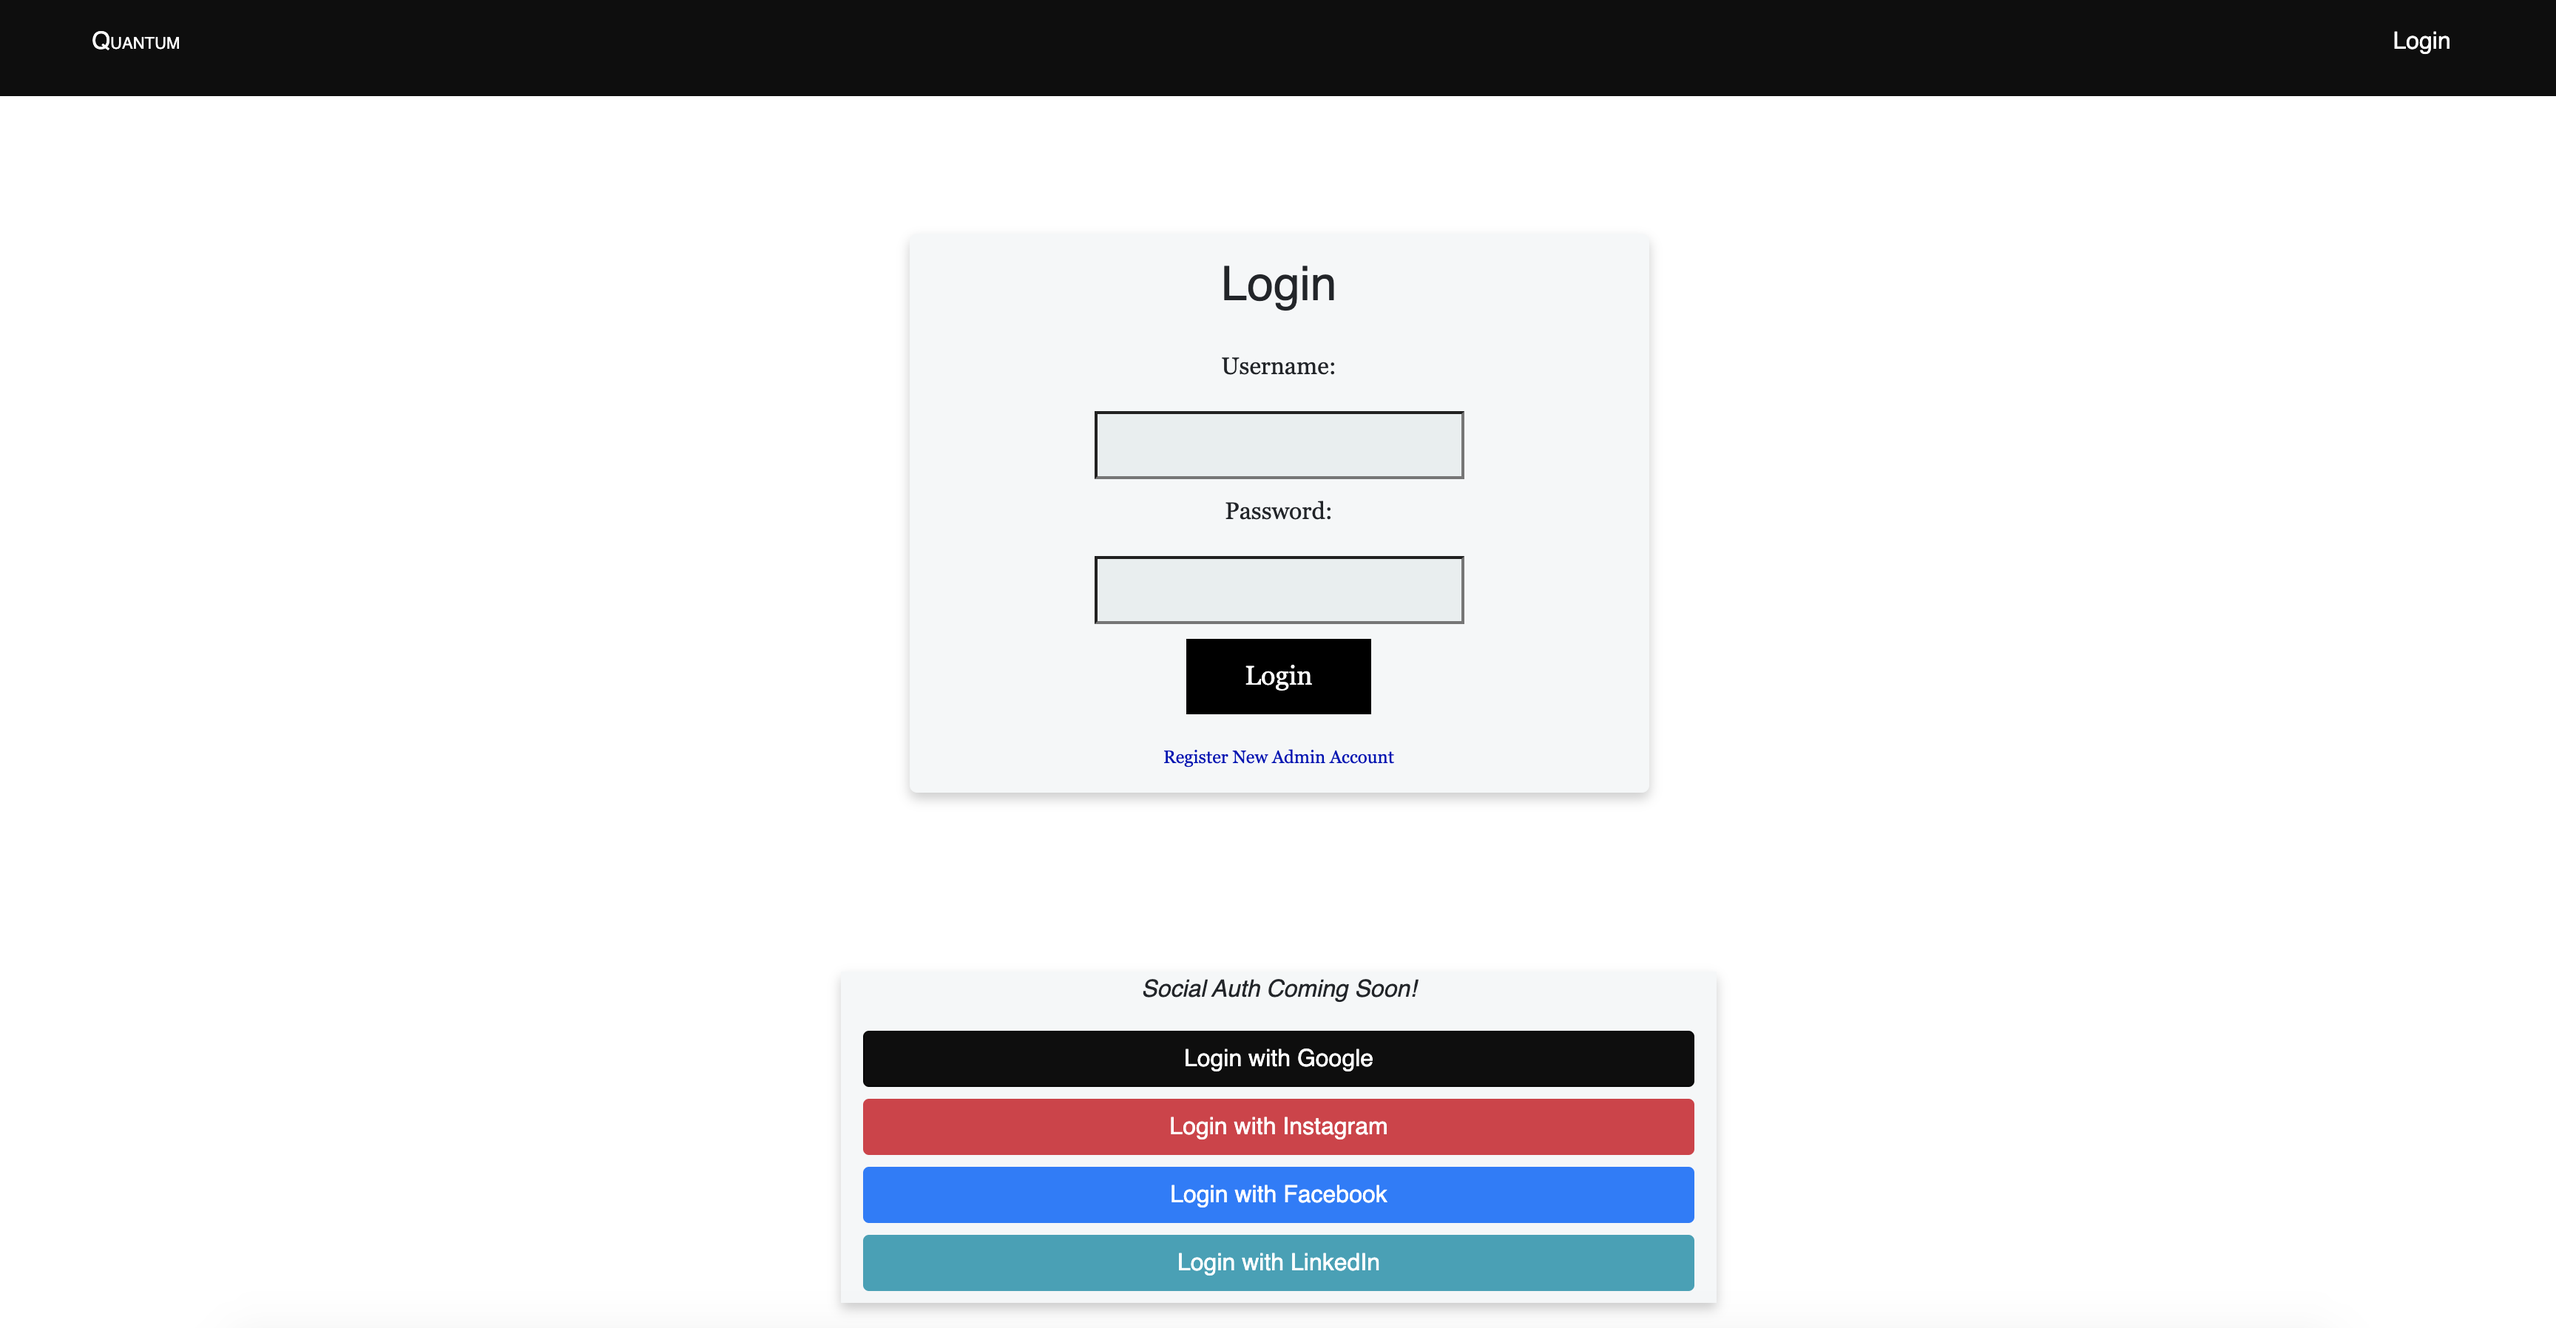
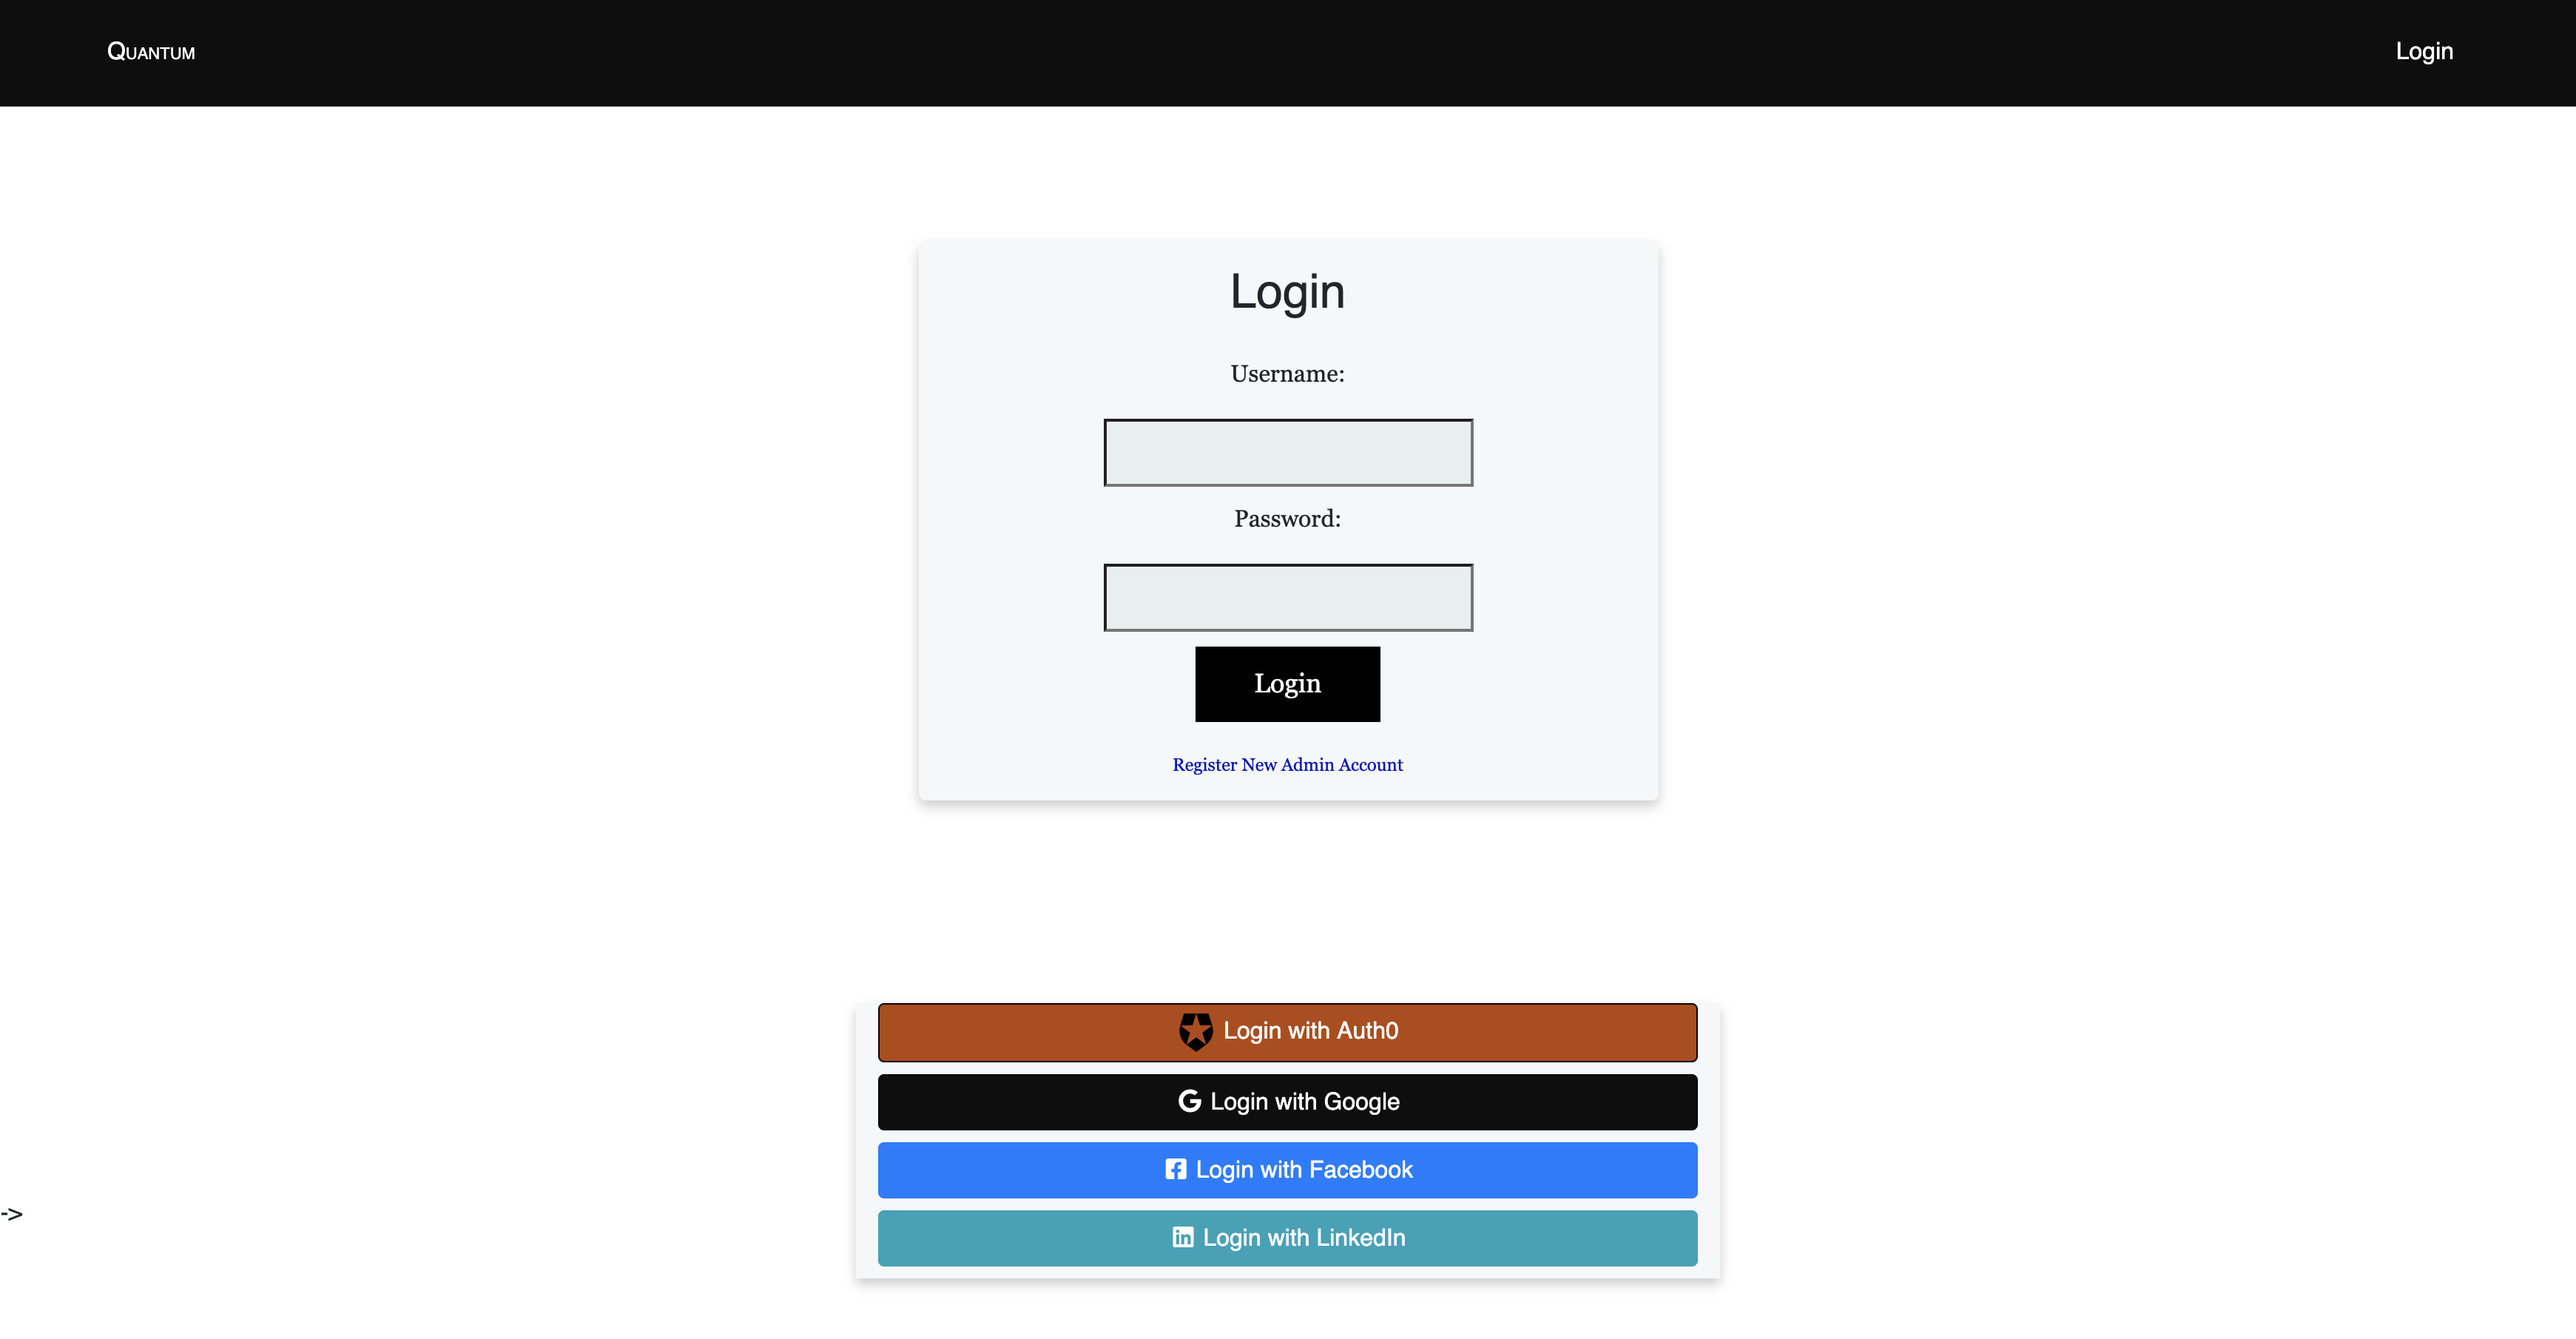
feat: login and register validation edits. Readme edits.

diff --git a/quantummanagementapp/templates/registration/login.html b/quantummanagementapp/templates/registration/login.html
@@ -7,12 +7,13 @@
 <div class="login-container">
     <div class="login-card">
         <h2>Login</h2>
+        <div class="login_sub_header">Superuser or SysAdmin Accounts</div>
         <form method="POST">
             {% csrf_token %}
             {{ login_form.as_p }}
             <button class="login_btn" type="submit">Login</button>
             <button class="register_btn"><a class="register_btn"
-                    href="{% url 'quantummanagementapp:register' %}">Register New Admin Account</a></button>
+                    href="{% url 'quantummanagementapp:register' %}">Register New SysAdmin Account</a></button>
             {% if messages %}
             <ul class="messages">
                 {% for message in messages %}
@@ -26,7 +27,6 @@
         <div class="col-md-8 mx-auto social-container my-2 order-md-1">
 
             <button id="login_with_auth0" class="btn btn-primary mb-2">
-                    <!-- <img src="https://i.cloudup.com/StzWWrY34s.png" /> -->
                     <img id="auth0_img" src="../../static/images/iconfinder_auth0_4691528.svg" style="width: 26px;">
                 <a href="{% url 'social:begin' 'auth0' %}" title="Auth0">Login with Auth0</a>
             </button>
@@ -37,36 +37,16 @@
             </button>
             {% endif %}
 
-            <!-- <button class="btn btn-primary mb-2" onclick="loginfb()"> -->
                 <button class="btn btn-primary mb-2" onclick="checkLoginState();">
-                <a href="{% url 'social:begin' 'facebook' %}?next={{ next }}"> <i class="fab fa-facebook-square"></i> Login with Facebook
+                <a href="{% url 'social:begin' 'facebook' %}"> <i class="fab fa-facebook-square"></i> Login with Facebook
                 </a>
             </button>
             <button class="btn btn-info mb-2">
                 <a href="#"> <i class="fab fa-linkedin"></i> Login with LinkedIn</a>
             </button>
 
-
-
-
-            <!-- <div> 
-                {% if not status %} 
-                    <a href="/gmailAuthenticate" onclick="gmailAuthenticate()" title="Google">Google</a> 
-                {% else %} 
-                    <p>Your are verified</p> 
-                {% endif %} 
-            </div>  -->
-<!-- 
-            <fb:login-button scope="public_profile,email" onlogin="checkLoginState();">
-            </fb:login-button> -->
-
         </div>
     </div>
 </div>
 
 {% endblock %}
-
-
-<!-- {% block scripts %} -->
-<!-- <script src="{% static 'scripts/socialAuth.js' %}"></script> -->
-<!-- {% endblock %} -->

diff --git a/quantummanagementapp/static/styles/login.css b/quantummanagementapp/static/styles/login.css
@@ -13,7 +13,7 @@
 }
 
 .login-card h2 {
-  margin-bottom: 20px;
+  margin-bottom: 10px;
   margin-top: 15px;
 }
 
@@ -53,7 +53,7 @@
   border: 1px solid rgba(0, 0, 0, 0.753);
   border-width: 1px 1px 3px;
   margin-bottom: 10px;
-  margin-top: 5px;
+  margin-top: 10px;
 }
 
 /* On mouse-over, add a deeper shadow */
@@ -216,4 +216,10 @@
 #login_with_auth0 img {
   border: none;
   margin-right: 1px;
+}
+
+.login_sub_header {
+  font-size: 12px;
+  font-style: italic;
+  margin-bottom: 12px;
 }

diff --git a/quantummanagementapp/views/admin_users/auth/register.py b/quantummanagementapp/views/admin_users/auth/register.py
@@ -18,17 +18,12 @@ def register_user(request):
             username = form.cleaned_data.get('username')
             raw_password = form.cleaned_data.get('password1')
             user = authenticate(request, username=username, password=raw_password)
-            # token = Token.objects.create(user=user)
-            # admin_user = AdminUser.objects.get(user_id=user.id)
-            # new_image = Image()
-            # new_image.save()
-            # admin_user.image_id = new_image.id
-            # admin_user.save()
             login(request, user)
             return redirect(reverse('quantummanagementapp:home'))
         else:
-            print(form.errors.as_data())
-            messages.add_message(request, messages.ERROR, 'Passwords not match')
+            print("Register Errors", form.errors.as_data())
+            error_messages = form.errors
+            messages.add_message(request, messages.ERROR, error_messages)
             return redirect(reverse('quantummanagementapp:register'))
 
     else:

diff --git a/quantummanagementapp/views/admin_users/auth/login_user.py b/quantummanagementapp/views/admin_users/auth/login_user.py
@@ -37,7 +37,8 @@ def login_user(request):
             data = json.dumps({"valid": False})
             # return HttpResponse(data, content_type='application/json')
             print("LOGINDATA", login_form.errors.as_data())
-            messages.add_message(request, messages.ERROR, 'Invalid username or password')
+            error_message = login_form.errors.as_data()
+            messages.add_message(request, messages.ERROR, error_message)
             return redirect(reverse('quantummanagementapp:login'))
 
     else:

diff --git a/README.md b/README.md
@@ -49,7 +49,15 @@ Quantum Management is a management and data analytics application that allows a 
 
 ## Login/ Register
 
-![login](quantummanagementapp/static/images/Login.png)  ![register](quantummanagementapp/static/images/Register.png)
+![login](quantummanagementapp/static/images/Login.png)
+
+* A user has mmany options for a secure authentication process/ login. This project is meant to simulate users having differnt permissions for the application.
+  * **Superuser** - If given superuser permissions, user will have thier credentials already securely stored, so the user can simply use the login form and will have access to the Django Admin dashboard as well. 
+  * **SysAdmin** - As a sysadmin user, the user may register their sysadmin account and log in through the login form as well. A SysAdmin has full access to the application with the exemption of the Django Admin dashboard.
+  * **Admin User** - Regular user with basic permissions in the application. To access their account and log into the application, admin users will authenticate via one of the social login options, using their email.
+
+
+![register](quantummanagementapp/static/images/Register.png)
 
 ## Account
 
